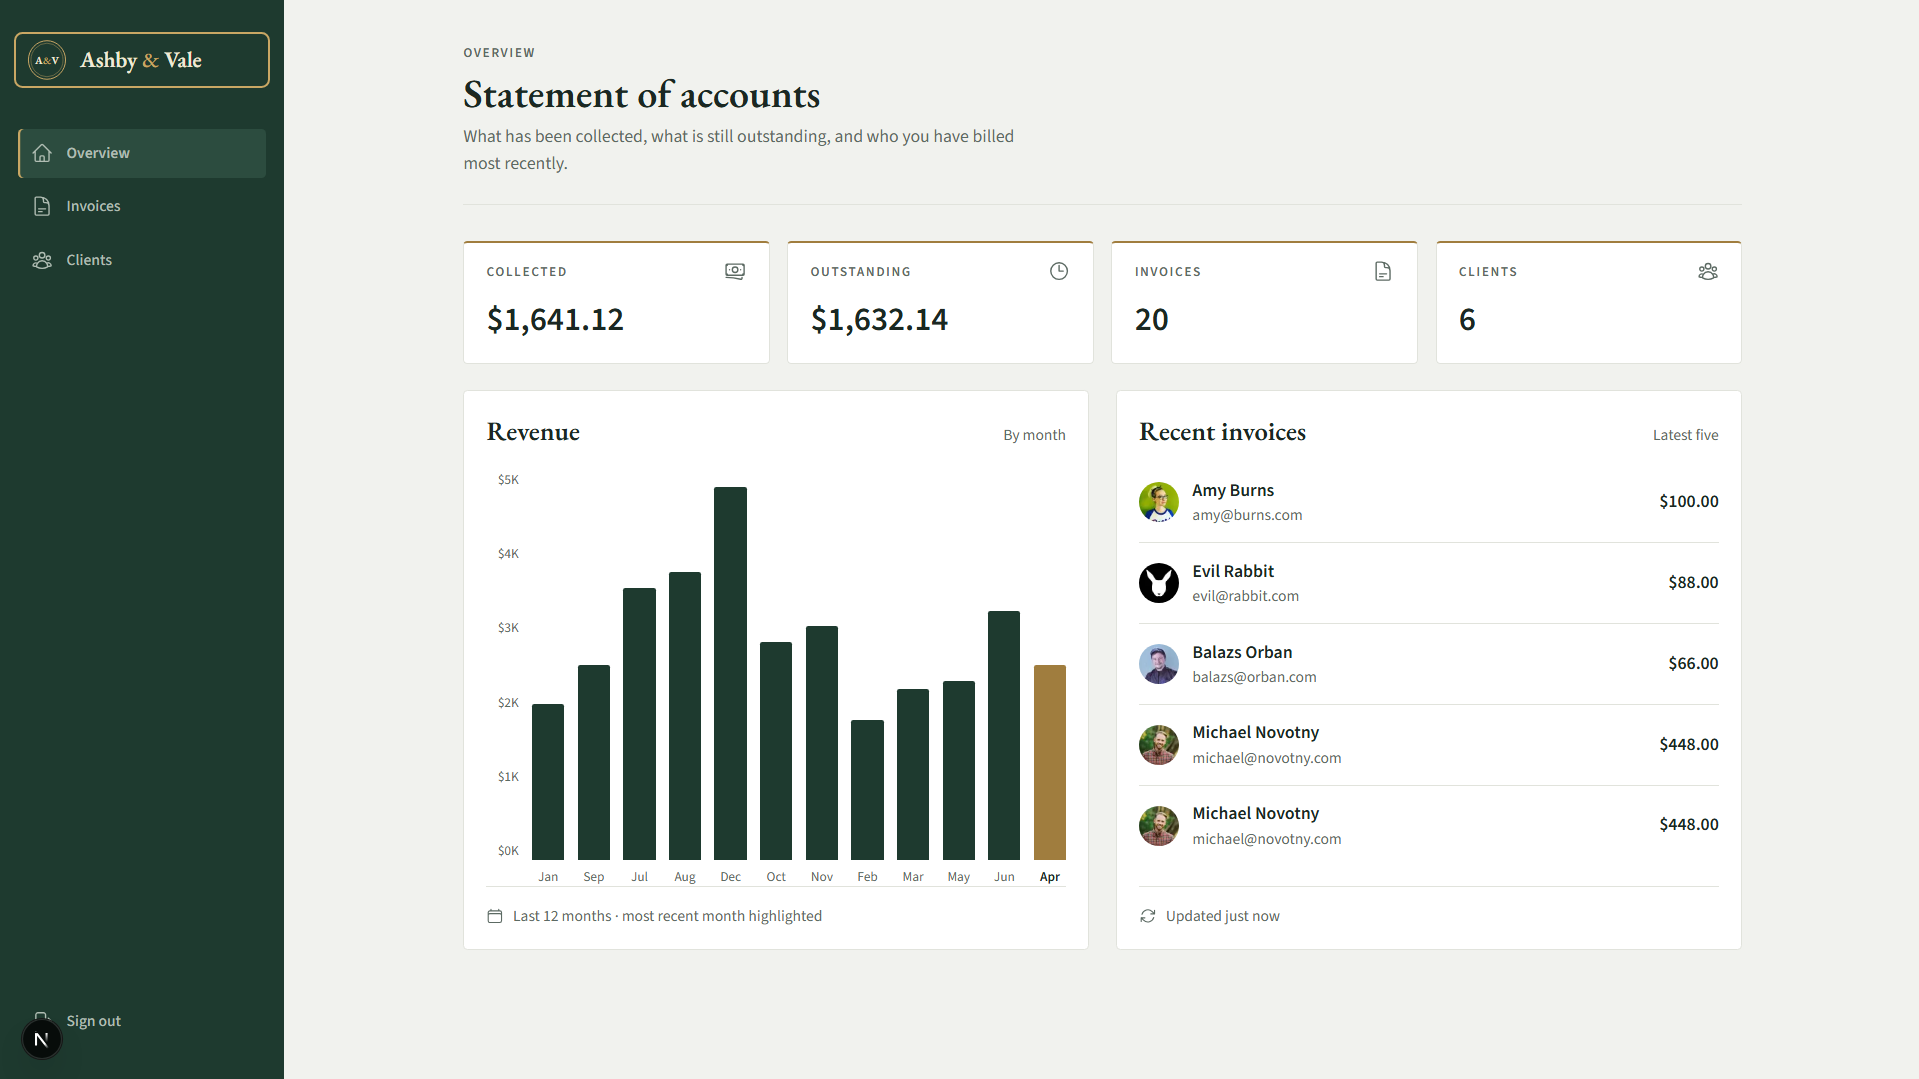
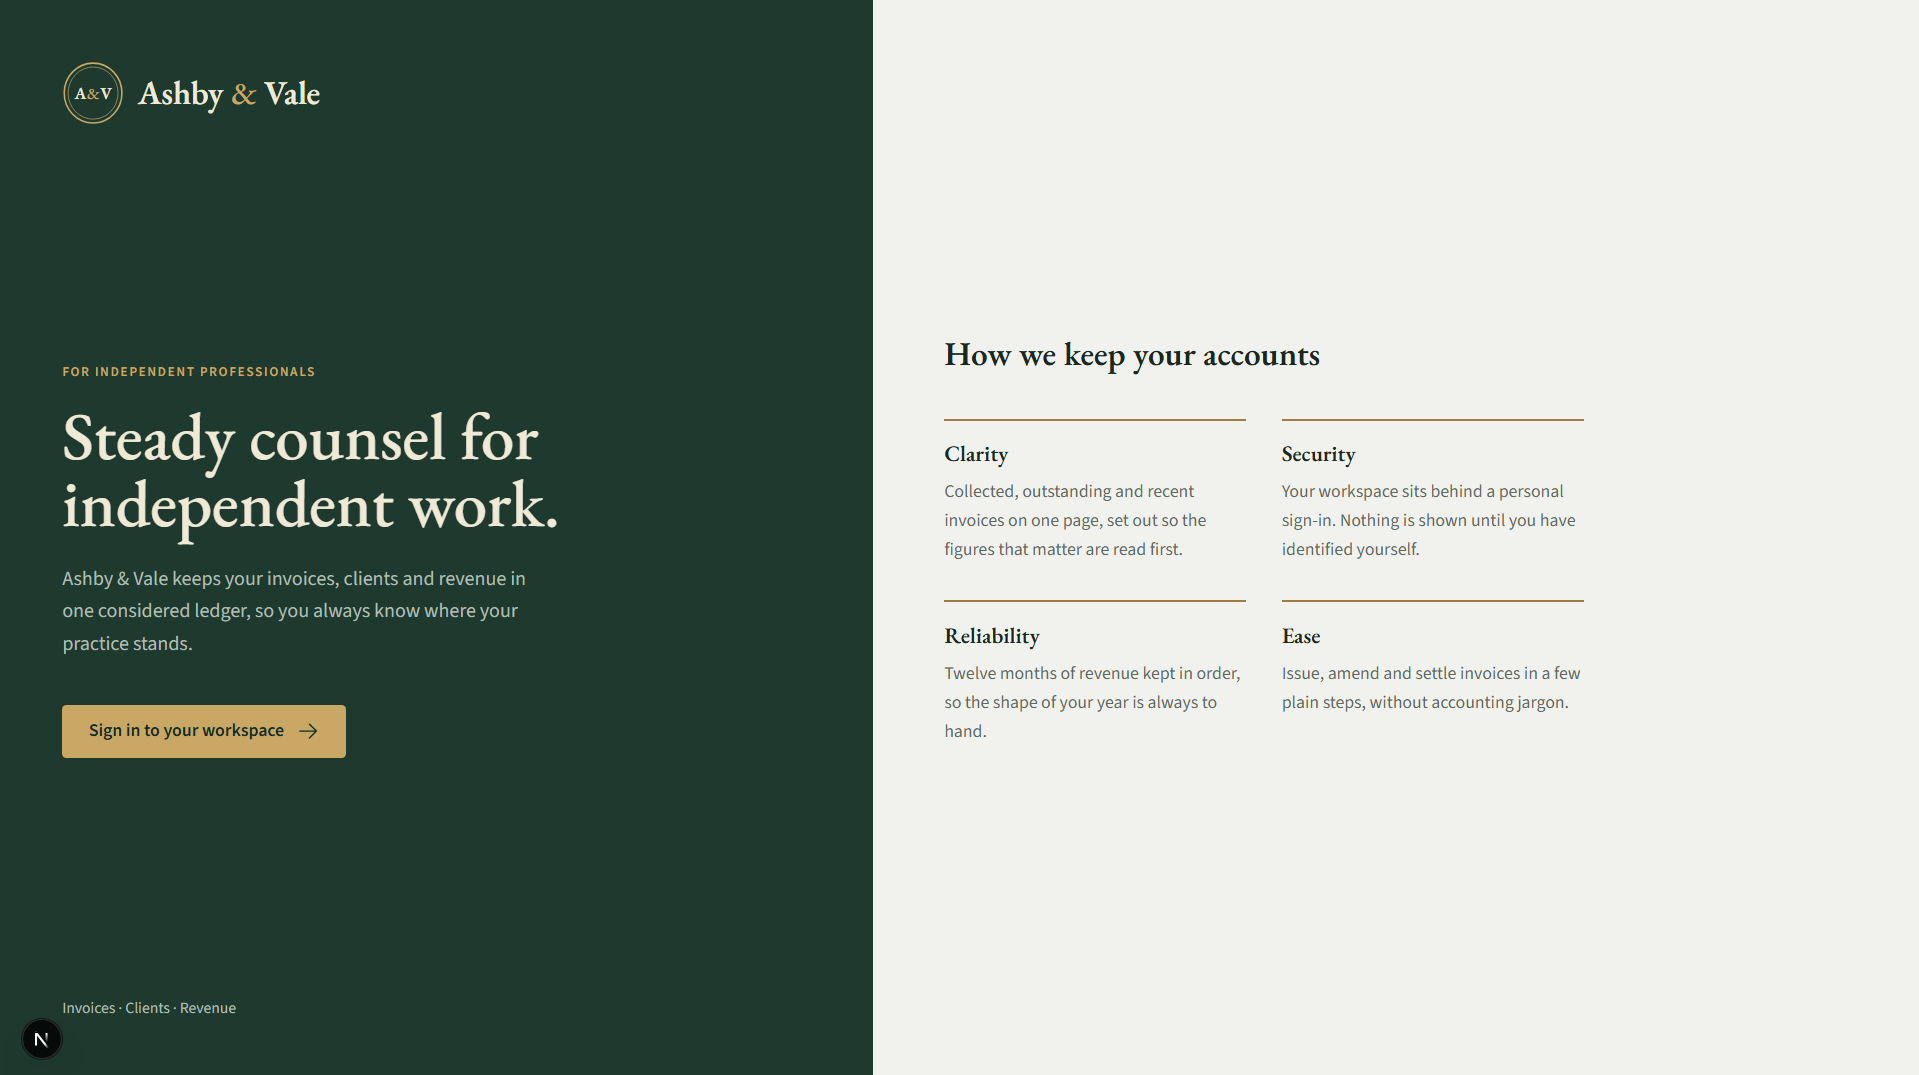
docs: add screenshots and rework README sections

diff --git a/README.md b/README.md
@@ -2,7 +2,17 @@
 
 The Ashby & Vale dashboard is a freelancer dashboard app that in its final version will allow users to create an account, log in and view their data in their own personal workspace. 
 
-![Ashby & Vale Dashboard home page](/public/home-page.png)
+![Ashby & Vale Dashboard home page](/public/home-page.png "Home Page")
+**Home Page**
+
+![Ashby & Vale Dashboard overview page](/public/dashboard-page-light.png "Overview Page | Light Theme")
+**Overview Page | Light Theme**
+
+![Ashby & Vale Dashboard overview Page - dark Theme](/public/dashboard-page-dark.png "Overview Page | Dark Theme")
+**Overview Page | Dark Theme**
+
+![Ashby & Vale Dashboard invoices page](/public/invoices-page-light.png "Invoices Page | Light Theme")
+**Invoices Page | Light Theme**
 
 ## New Features
 
@@ -11,21 +21,6 @@ v0.4.0 gives every user a personal workspace:
 - Each account sees and manages only its own clients, invoices and revenue. Another user's invoices cannot be viewed, edited or deleted, even with a direct link.
 - The sidebar shows whose workspace you are in.
 - A second demo account lets you sign in as two different users and compare their workspaces.
-
-v0.3.0 adds a dark mode:
-
-- A Light / Dark / System switch in the sidebar. By default the app follows your device's setting, and your choice is remembered on your next visit.
-- The page opens in the right theme straight away, without flashing light first.
-- The dark theme keeps the green and brass character on deep green-black backgrounds, with text that stays easy to read.
-
-v0.2.0 replaced the tutorial's "Acme" look with a new brand identity, Ashby & Vale:
-
-- A new name, logo and tagline ("Steady counsel for independent work."), with a deep green and brass color scheme and classic serif headings.
-- A new home page that introduces the app and links to sign-in, replacing the tutorial's welcome text.
-- A redesigned sign-in page, sidebar, overview, invoice list and invoice forms. Amounts line up in columns, and the most recent month stands out in the revenue chart.
-- Clearer messages when there are no invoices to show, when an invoice cannot be found, or when something goes wrong.
-- Better support for keyboard and screen-reader users: visible focus outlines, labels on all icon buttons, and a text version of the revenue chart.
-- The app now speaks of "clients" instead of "customers".
 
 ## Project History 
 
@@ -60,7 +55,22 @@ After the end of the refactoring process, my aim is to present the user with the
 - See at a glance who owes money and how late the payment is, grouped into 0–30, 31–60 and 60+ days overdue.
 - View a revenue chart based on the payments actually received, and narrow it down to the last 30 days, the last quarter or the last year.
 
+## Skills Demonstrated
 
+My learning goals for this project (and, therefore, the skills it is meant to demonstrate) are mostly focused in the following areas:
+
+- an overall solid grasp of React and Next.js workflows
+- overall full-stack design and integration
+- implementation of serverless programming patterns
+- database integration, data fetching and streaming
+- security concerns (authentication, validation, login mechanisms)
+- implementation of appropriate business practices
+- a solid grasp of frontend and UI/UX skills (even though not my basic priority for this project)
+- familiarity with and integration of agentic workflows in the development process
+- the ability to efficiently self-organize a project's tasks
+- the ability to begin from a basic, generic functionality and gradually provide a more expertized and distinctive application purpose.
+- basic CI/CD workflows (GitHub Actions, ci.yaml, PRs, main branch protection rulesets)
+- communication and project presentation skills (and excellent English language skills) and attention to detail
 
 ## Tech Stack
 
@@ -74,28 +84,11 @@ After the end of the refactoring process, my aim is to present the user with the
 - ![ESLint](https://img.shields.io/badge/ESLint-10-4B32C3?logo=eslint&logoColor=white)
 - ![pnpm](https://img.shields.io/badge/pnpm-12-F69220?logo=pnpm&logoColor=white)
 
-## Learning Goals
-
-- improve my experience with data fetching and API requests, and deal with the various problems that arise in the process.
-- design better solutions for potential users.
-- be able to begin from a basic, generic functionality and gradually provide a more expertized and distinctive application purpose.
-- get deeper into React and explore its potential at greater depth.
-- get an even more concrete understanding of browser behavior and debugging approaches.
-- increase my experience and familiarity with DevOps practices, CI/CD operations, and professional development workflows.
-
 ## AI-Assisted Development
 
-Claude Code was used as an AI coding assistant during the development of this project. My learning goals for this project (and, therefore, the skills it is meant to demonstrate) are mostly focused in the following areas:
+It is impossible in our times to fully separate code written by AI and human hand. Claude Code was used as an AI coding assistant during the development of this project, but my contribution is more acutely felt in the areas highlighted in the **Skills** section. And of course in setting up the project, creating its initial template, defining its purpose and requirements, directing design iterations, reviewing generated code and integrating components into the application.
 
-- overall full-stack design and integration
-- implementation of serverless programming patterns
-- data fetching from external API sources
-- security concerns (authentication, validation, login mechanisms)
-- implementation of appropriate business practices
-
-It is impossible in our times to fully separate code written by AI and human hand, but my contribution is more acutely felt in the areas above. For this project then, I take a greater share of responsibility for the code handling API requests, data manipulation/management, general backend logic and DevOps practices. And of course setting up the project and creating its initial template, defining its purpose and requirements, directing design iterations, reviewing generated code and integrating components into the application.
-
-Now, in other areas... well, besides using Claude Code as a general assistant to speed up processes, I particularly used its services for UI design exploration, visual styling, and implementation of frontend components. My usual strategy is to describe the brand/project aimed aesthetic and target audience (`docs/ai/design-directions/brand-character.md`), create or adjust the necessary skills (as found in the relevant `.claude` folder), set up guidelines and then ask it to present me with two or three alternative stylings that I can review and choose from. Then, I may tinker a bit with the code myself to refine them further.
+Since this project's main purpose wasn't so much to demonstrate UI/UX abilities, my strategy was to describe the brand/project aimed aesthetic and target audience (`docs/ai/design-directions/brand-character.md`), create or adjust the necessary skills (as found in the relevant `.claude` folder), set up guidelines and then ask Claude to present me with two or three alternative stylings that I can review and choose from. Then, I may tinker a bit with the code myself to refine them further, using my own sense of styling and appropriateness.
 
 AI-generated code was reviewed and adapted as needed. But the overall responsibility and any possible flaws of the project are mine.
 
